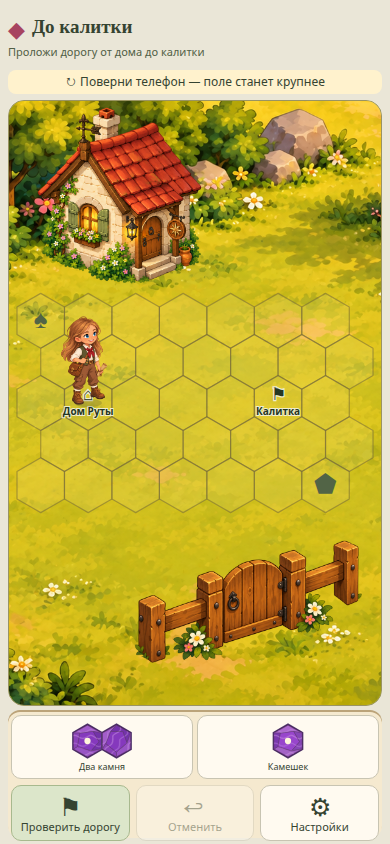
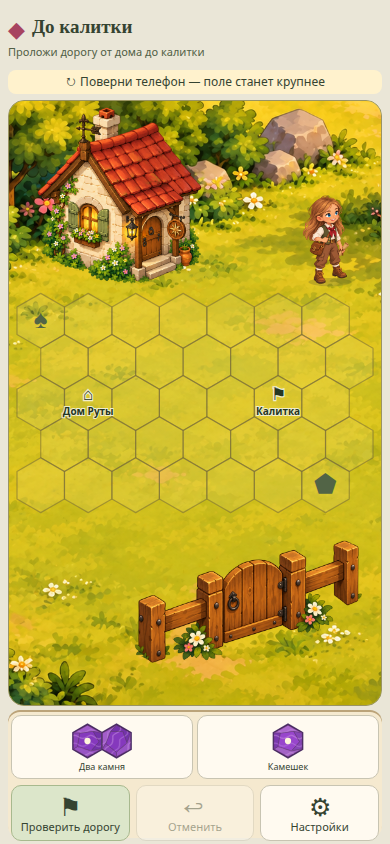
fix: place idle Ruta beside house outside playable grid

Changed region(s): [[0.1538, 0.3697, 0.2769, 0.4929], [0.7692, 0.2156, 0.8923, 0.3389]]

diff --git a/src/level-art.ts b/src/level-art.ts
@@ -1,4 +1,4 @@
-import {hexCenter,type Hex} from './hex.ts';
+import {type Hex} from './hex.ts';
 const ns='http://www.w3.org/2000/svg';
 export const artUrl=(name:string)=>`${import.meta.env.BASE_URL}assets/level-1/${name}.png`;
 function node(tag:string,attrs:Record<string,string|number>,parent:Element){
@@ -9,7 +9,7 @@ function node(tag:string,attrs:Record<string,string|number>,parent:Element){
 export function backdrop(svg:SVGSVGElement,width:number,height:number){
   node('image',{href:artUrl('meadow'),width,height,preserveAspectRatio:'xMidYMid slice','pointer-events':'none'},svg);
 }
-export function scenery(svg:SVGSVGElement,width:number,height:number,radius:number,origin:{x:number;y:number},start:Hex,boardWidth:number,boardHeight:number){
+export function scenery(svg:SVGSVGElement,width:number,height:number,radius:number,origin:{x:number;y:number},boardWidth:number,boardHeight:number){
   const layer=node('g',{'pointer-events':'none','data-scenery':''},svg);
   const left=origin.x-Math.sqrt(3)*radius/2,top=origin.y-radius;
   const landscape=width>height;
@@ -21,10 +21,14 @@ export function scenery(svg:SVGSVGElement,width:number,height:number,radius:numb
   const gateWidth=Math.max(0,Math.min(landscape?width-left-boardWidth-10:width*.65,(landscape?height*.8:height-top-boardHeight-10)*1.5));
   const gateHeight=gateWidth/1.5;
   node('image',{href:artUrl('garden-gate'),x:landscape?left+boardWidth+6:width-gateWidth-12,y:landscape?(height-gateHeight)/2:top+boardHeight+6,width:gateWidth,height:gateHeight,'data-decoration':'gate'},layer);
-  const c=hexCenter(start,radius),x=origin.x+c.x,y=origin.y+c.y;
-  node('ellipse',{cx:x,cy:y,rx:radius*.5,ry:radius*.15,fill:'#3b402c',opacity:.22},layer);
-  const rh=radius*3.4,rw=rh*1209/1300;
-  node('image',{id:'ruta-idle',href:artUrl('ruta-idle'),x:x-rw*.55,y:y-rh*.965,width:rw,height:rh,'aria-label':'Рута стоит у дома'},layer);
+  // Ruta waits beside the house, entirely outside the playable rectangle.
+  // A future walking animation can enter via the logical start cell.
+  const rh=Math.max(0,Math.min(radius*3.4,landscape?(left-16)*1300/1209:top-16));
+  const rw=rh*1209/1300;
+  const rx=landscape?(left-rw)/2:width-rw-12;
+  const ry=landscape?Math.min(height-rh-8,(height+houseHeight)/2-rh*.55):top-rh-8;
+  node('ellipse',{cx:rx+rw*.55,cy:ry+rh*.965,rx:rw*.25,ry:rh*.045,fill:'#3b402c',opacity:.22},layer);
+  node('image',{id:'ruta-idle',href:artUrl('ruta-idle'),x:rx,y:ry,width:rw,height:rh,'data-decoration':'ruta','aria-label':'Рута ждёт у дома'},layer);
 }
 // Only the material varies. Fragment edges and veins never define connectivity.
 let materialId=0;

diff --git a/src/main.ts b/src/main.ts
@@ -181,7 +181,7 @@ function renderBoard() {
     if(path.has(k)) el('circle',{cx:c.x+origin.x,cy:c.y+origin.y-radius*.6,r:Math.max(2,radius*.08),fill:'#fffbd3','pointer-events':'none'},g);
   }
   svg.append(landmarks);
-  if(illustrated)scenery(svg,rect.width,rect.height,radius,origin,level.start,w,h);
+  if(illustrated)scenery(svg,rect.width,rect.height,radius,origin,w,h);
   renderPreview();
   if(level.id==='mill') {
     const c=hexCenter(level.goal,radius);

diff --git a/tests/art_browser.py b/tests/art_browser.py
@@ -15,7 +15,7 @@ with sync_playwright() as p:
         page.on('pageerror',lambda e:errors.append(str(e)))
         page.goto(URL);page.locator('[data-level="gate"]').tap();page.locator('#story-action').tap()
         assert page.evaluate('document.documentElement.scrollWidth===innerWidth && document.documentElement.scrollHeight===innerHeight')
-        # Every cell centre still hits its cell, including cells behind the character.
+        # Every cell centre still hits its cell, with all decorations outside the grid.
         assert page.locator('[data-cell]').evaluate_all('els=>els.every(el=>{const b=el.getBoundingClientRect();return document.elementFromPoint(b.x+b.width/2,b.y+b.height/2)?.closest("[data-cell]")===el;})')
         for asset in ['meadow','ruta-house','garden-gate','ruta-idle']:
             assert page.request.get(URL+'assets/level-1/'+asset+'.png').ok
@@ -24,6 +24,13 @@ with sync_playwright() as p:
         for box in page.locator('[data-decoration]').evaluate_all('els=>els.map(e=>{const b=e.getBoundingClientRect();return {l:b.left,r:b.right,t:b.top,b:b.bottom};})'):
             assert box['r']<=grid['l'] or box['l']>=grid['r'] or box['b']<=grid['t'] or box['t']>=grid['b']
         page.screenshot(path=str(SHOTS/f'gate-{width}x{height}.png'))
+        # Regression: the formerly obscured cell remains readable and editable.
+        page.locator('[data-piece="single"]').tap()
+        page.touchscreen.tap(*center(page,'[data-cell="0,1"]'));page.locator('#place').tap()
+        assert page.locator('[data-piece="single"].placed').count()==1
+        page.screenshot(path=str(SHOTS/f'visible-stone-{width}x{height}.png'))
+        page.touchscreen.tap(*center(page,'[data-cell="0,1"]'));page.locator('#return').tap()
+        assert page.locator('.piece.placed').count()==0
         # Drag on the decorated board uses the same finger offset and hit geometry.
         page.locator('#settings-open').tap();page.locator('#mode').select_option('drag');page.locator('#settings-close').tap()
         session=page.context.new_cdp_session(page)

diff --git a/README.md b/README.md
@@ -85,7 +85,7 @@ python tests/art_browser.py
 
 ## Графика и ограничения
 
-Первый уровень использует утверждённые PNG: поляна, дом, калитка и статичная Рута. Исходники и manifest сохранены в `public/assets/level-1/`, задание — [HANDOFF](docs/level-1-art-handoff.md). Фон не содержит готовой сетки: гексы, чароитовый плитняк и предпросмотр рисуются поверх него в одной системе координат. Дом и калитка находятся вне прямоугольника поля; на портретном экране — сверху и снизу. При нехватке места декорации уменьшены относительно референса ради крупных клеток. Рута не перехватывает касания клеток под ней.
+Первый уровень использует утверждённые PNG: поляна, дом, калитка и статичная Рута. Исходники и manifest сохранены в `public/assets/level-1/`, задание — [HANDOFF](docs/level-1-art-handoff.md). Фон не содержит готовой сетки: гексы, чароитовый плитняк и предпросмотр рисуются поверх него в одной системе координат. Дом и калитка находятся вне прямоугольника поля; на портретном экране — сверху и снизу. При нехватке места декорации уменьшены относительно референса ради крупных клеток. Рута ждёт рядом с домом за границей поля и не закрывает игровые клетки. В портретной раскладке она стоит над полем. При будущей реализации ходьбы персонаж сможет выходить на готовую дорогу через стартовую клетку.
 
 Материал дороги — насыщенный фиолетовый чароит: один крупный угловатый камень и четыре меньших в каждом гексе, узкие тёмные швы, светлые волнистые прожилки и тонкая кромка. Фактура программная и стабильная по координатам; фрагменты не меняют связность и не являются отдельными клетками. В наборе показан тот же материал.
 

diff --git a/docs/level-1-art-handoff.md b/docs/level-1-art-handoff.md
@@ -54,3 +54,8 @@
 ## Уточнение утверждённого материала
 
 Последующее уточнение Максима заменяет приглушённый плитняк: насыщенный фиолетовый чароит со светлыми волнистыми прожилками. Внутри гекса — крупный угловатый камень и несколько меньших, прямые сколы и узкие тёмно-фиолетовые швы. Поверхность плоская, с небольшой толщиной. Референс фактуры и цвета: `Magical Violet Charoite Flagstone Path.png`. Геометрия игровых гексов сохраняется.
+
+
+## Уточнение размещения Руты после ревью
+
+По решению Максима Рута в ожидании стоит рядом с домом вне гексов. Это заменяет исходную привязку подошв к стартовой клетке. Полупрозрачность не используется. Когда будет реализована ходьба, Рута выходит на уже готовое поле; в этой итерации персонаж остаётся статичным.
